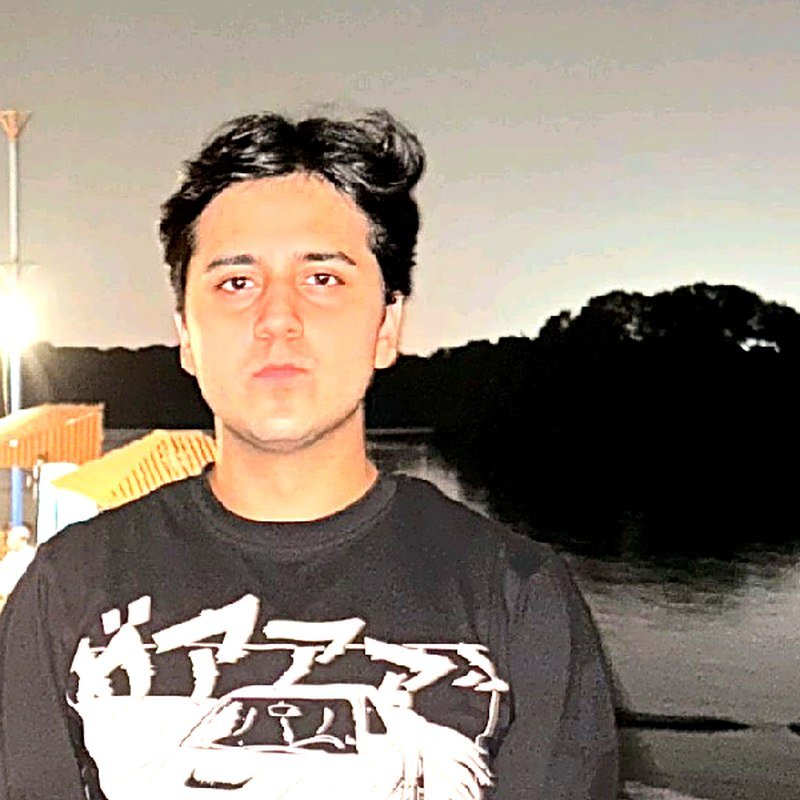
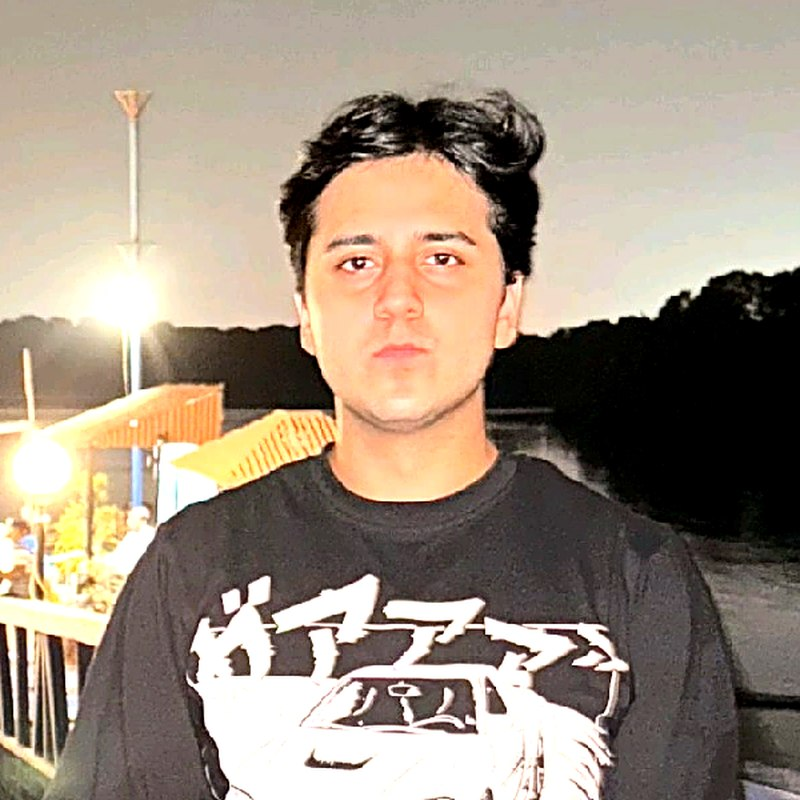
Center profile photo crop and add a dedicated Get in touch section

diff --git a/index.html b/index.html
@@ -34,7 +34,7 @@
       href="https://fonts.googleapis.com/css2?family=Inter:wght@400;500;600&family=Newsreader:ital,opsz,wght@0,6..72,400;0,6..72,500;0,6..72,600;1,6..72,400&display=swap"
       rel="stylesheet"
     />
-    <link rel="stylesheet" href="assets/css/main.css?v=4" />
+    <link rel="stylesheet" href="assets/css/main.css?v=5" />
 
     <!-- Set theme before first paint to avoid a flash of the wrong theme -->
     <script>
@@ -174,12 +174,6 @@
                 <svg viewBox="0 0 24 24" fill="none" stroke="currentColor" stroke-width="1.8" stroke-linecap="round" stroke-linejoin="round" aria-hidden="true"><rect x="2" y="4" width="20" height="16" rx="2" /><path d="m2 7 10 6 10-6" /></svg>
                 <a href="mailto:m.haseebasif5@gmail.com">m.haseebasif5@gmail.com</a>
               </li>
-              <!-- Cal.com placeholder — replace with the real username once the
-                   account exists (see book-a-call.md in project root). -->
-              <li>
-                <svg viewBox="0 0 24 24" fill="none" stroke="currentColor" stroke-width="1.8" stroke-linecap="round" stroke-linejoin="round" aria-hidden="true"><rect x="3" y="4" width="18" height="18" rx="2" /><path d="M16 2v4M8 2v4M3 10h18" /><path d="M9 16l2 2 4-4" /></svg>
-                <a href="https://cal.com/haseebasif" target="_blank" rel="noopener">Book a call</a>
-              </li>
               <li>
                 <svg viewBox="0 0 24 24" fill="currentColor" aria-hidden="true"><path d="M12 .5A11.5 11.5 0 0 0 .5 12a11.5 11.5 0 0 0 7.86 10.92c.58.1.79-.25.79-.56v-2c-3.2.7-3.88-1.37-3.88-1.37-.53-1.35-1.29-1.71-1.29-1.71-1.05-.72.08-.7.08-.7 1.16.08 1.77 1.2 1.77 1.2 1.03 1.77 2.7 1.26 3.36.96.1-.75.4-1.26.73-1.55-2.56-.29-5.25-1.28-5.25-5.7 0-1.26.45-2.29 1.19-3.1-.12-.29-.52-1.46.11-3.05 0 0 .97-.31 3.18 1.18a11 11 0 0 1 5.79 0c2.2-1.5 3.17-1.18 3.17-1.18.63 1.59.24 2.76.12 3.05.74.81 1.19 1.84 1.19 3.1 0 4.43-2.7 5.4-5.27 5.69.41.36.78 1.06.78 2.14v3.17c0 .31.21.67.8.56A11.5 11.5 0 0 0 23.5 12 11.5 11.5 0 0 0 12 .5z" /></svg>
                 <a href="https://github.com/Haseebasif7" rel="me noopener">github.com/Haseebasif7</a>
@@ -301,6 +295,27 @@
           <p style="margin-top: 1.5rem">
             <a href="research.html">All research →</a>
           </p>
+        </section>
+
+        <!-- ===== contact ===== -->
+        <section class="section" aria-labelledby="contact-h">
+          <h2 class="section-title" id="contact-h">Get in touch</h2>
+          <div class="contact-card reveal">
+            <p class="contact-text">
+              Working on prompt injection, post-training or agentic RL, or just
+              want to talk research? I am glad to hear from you.
+            </p>
+            <div class="contact-actions">
+              <a class="btn" href="https://cal.com/haseebasif" target="_blank" rel="noopener">
+                <svg viewBox="0 0 24 24" fill="none" stroke="currentColor" stroke-width="1.8" stroke-linecap="round" stroke-linejoin="round" aria-hidden="true"><rect x="3" y="4" width="18" height="18" rx="2" /><path d="M16 2v4M8 2v4M3 10h18" /><path d="M9 16l2 2 4-4" /></svg>
+                Book a call
+              </a>
+              <a class="btn-outline" href="mailto:m.haseebasif5@gmail.com">
+                <svg viewBox="0 0 24 24" fill="none" stroke="currentColor" stroke-width="1.7" stroke-linecap="round" stroke-linejoin="round" aria-hidden="true"><rect x="2" y="4" width="20" height="16" rx="2" /><path d="m2 7 10 6 10-6" /></svg>
+                Email
+              </a>
+            </div>
+          </div>
         </section>
       </div>
     </main>

diff --git a/assets/css/main.css b/assets/css/main.css
@@ -957,6 +957,60 @@ html[data-theme="dark"] .btn:hover {
   height: 1rem;
 }
 
+/* Secondary button — pairs with .btn for a primary/secondary CTA pair */
+.btn-outline {
+  display: inline-flex;
+  align-items: center;
+  gap: 0.5rem;
+  font-size: var(--step-0);
+  font-weight: 500;
+  padding: 0.5rem 1rem;
+  border-radius: var(--radius);
+  border: 1px solid var(--divider-strong);
+  background: transparent;
+  color: var(--text);
+  transition: border-color var(--transition), background var(--transition),
+    color var(--transition);
+}
+
+.btn-outline:hover {
+  border-color: var(--accent);
+  color: var(--accent);
+  background: var(--accent-wash);
+  text-decoration: none;
+}
+
+.btn-outline svg {
+  width: 1rem;
+  height: 1rem;
+}
+
+/* --------------------------------------------------------------------------
+   Contact card — closing CTA on the about page
+   -------------------------------------------------------------------------- */
+
+.contact-card {
+  background: var(--accent-wash);
+  border: 1px solid var(--divider);
+  border-radius: var(--radius);
+  padding: 2.25rem 2rem;
+  text-align: center;
+}
+
+.contact-text {
+  max-width: 30rem;
+  margin: 0 auto 1.35rem;
+  color: var(--text);
+  font-size: var(--step-1);
+}
+
+.contact-actions {
+  display: flex;
+  flex-wrap: wrap;
+  justify-content: center;
+  gap: 0.75rem;
+}
+
 /* --------------------------------------------------------------------------
    9. Project cards
    -------------------------------------------------------------------------- */

diff --git a/cv.html b/cv.html
@@ -30,7 +30,7 @@
       href="https://fonts.googleapis.com/css2?family=Inter:wght@400;500;600&family=Newsreader:ital,opsz,wght@0,6..72,400;0,6..72,500;0,6..72,600;1,6..72,400&display=swap"
       rel="stylesheet"
     />
-    <link rel="stylesheet" href="assets/css/main.css?v=4" />
+    <link rel="stylesheet" href="assets/css/main.css?v=5" />
 
     <script>
       (function () {

diff --git a/projects.html b/projects.html
@@ -30,7 +30,7 @@
       href="https://fonts.googleapis.com/css2?family=Inter:wght@400;500;600&family=Newsreader:ital,opsz,wght@0,6..72,400;0,6..72,500;0,6..72,600;1,6..72,400&display=swap"
       rel="stylesheet"
     />
-    <link rel="stylesheet" href="assets/css/main.css?v=4" />
+    <link rel="stylesheet" href="assets/css/main.css?v=5" />
 
     <script>
       (function () {

diff --git a/research.html b/research.html
@@ -30,7 +30,7 @@
       href="https://fonts.googleapis.com/css2?family=Inter:wght@400;500;600&family=Newsreader:ital,opsz,wght@0,6..72,400;0,6..72,500;0,6..72,600;1,6..72,400&display=swap"
       rel="stylesheet"
     />
-    <link rel="stylesheet" href="assets/css/main.css?v=4" />
+    <link rel="stylesheet" href="assets/css/main.css?v=5" />
 
     <script>
       (function () {
